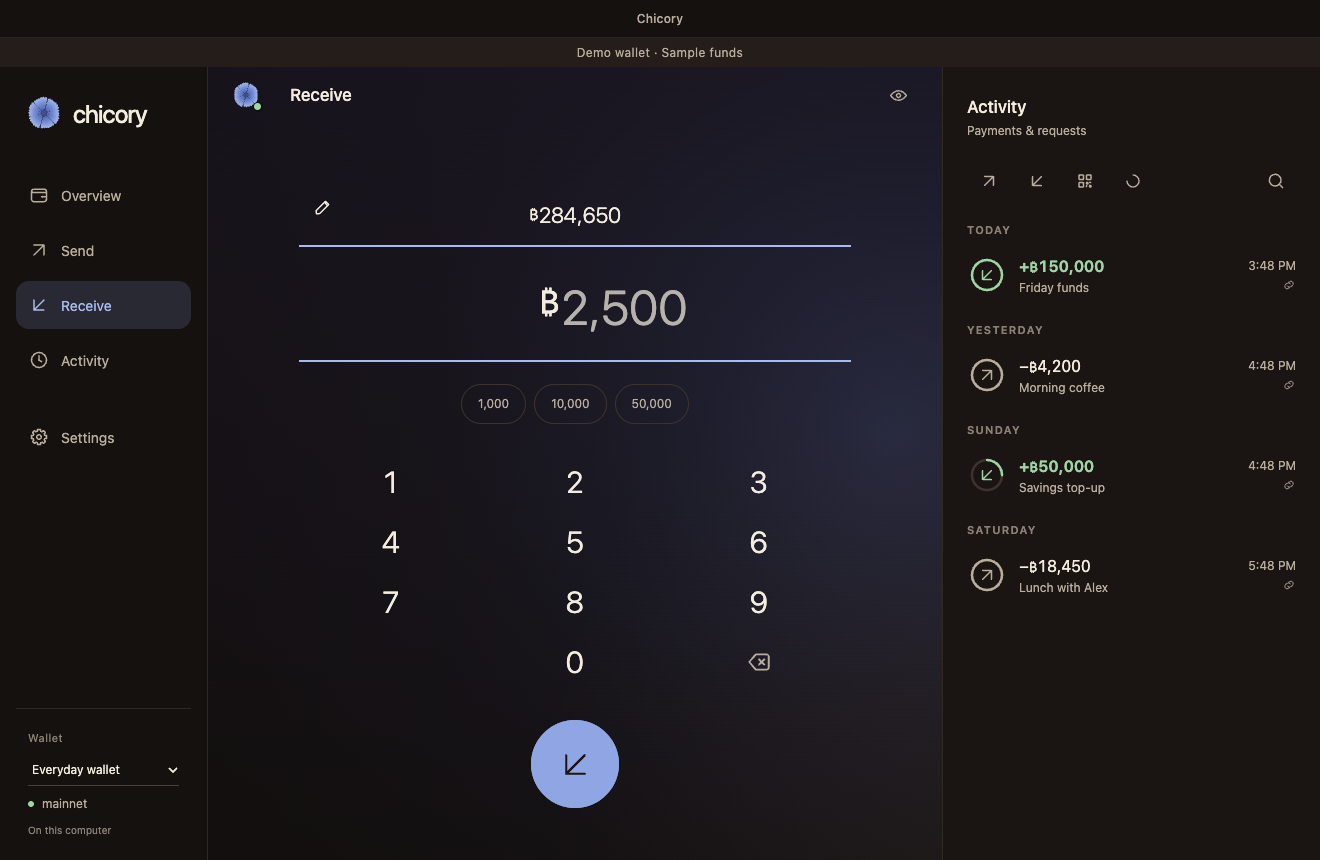
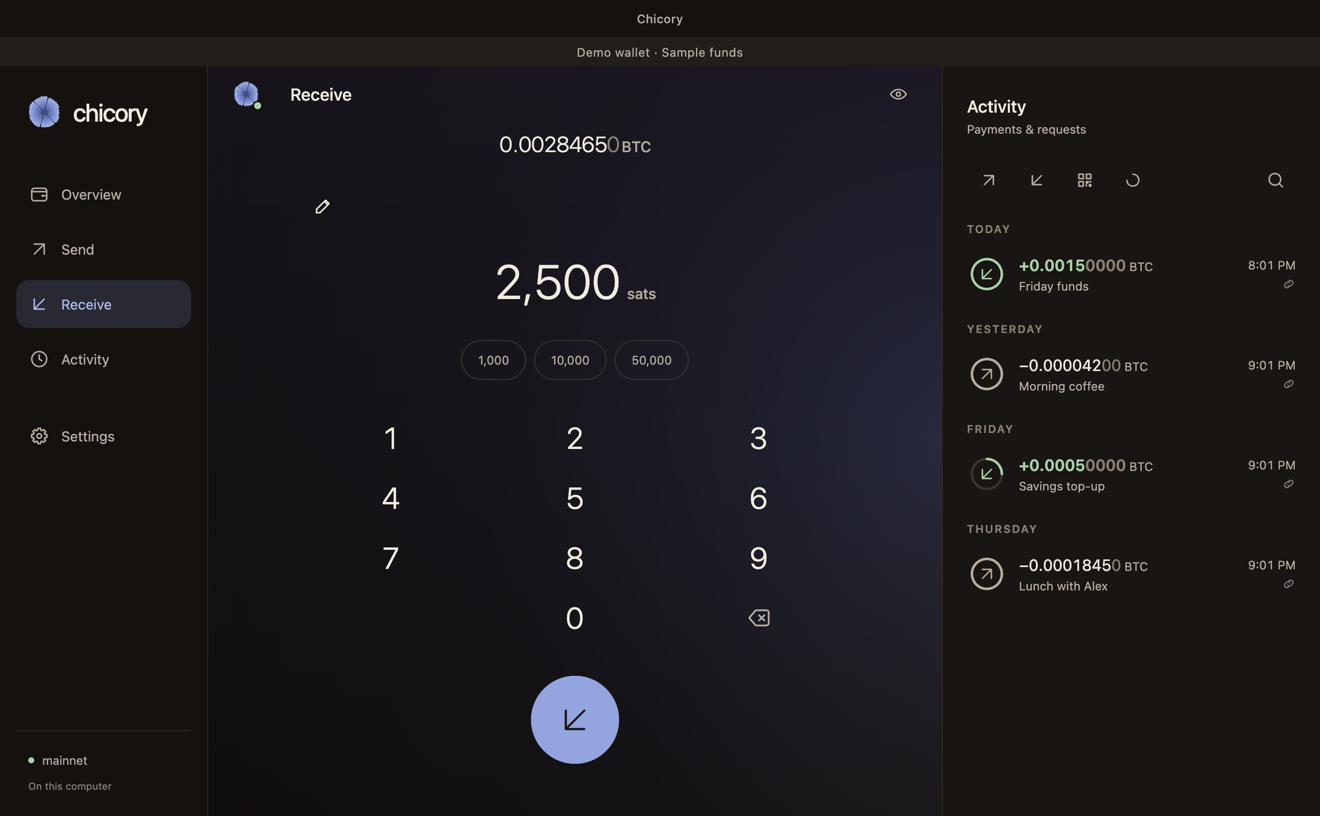
Keep the amount keypad visible on Send and Receive

diff --git a/web/chicory/src/scenes/receive/FormStep.tsx b/web/chicory/src/scenes/receive/FormStep.tsx
@@ -1,5 +1,5 @@
 import React, { useState } from 'react';
-import { ScrollView, StyleSheet, TextInput, View } from 'react-native';
+import { StyleSheet, TextInput, View } from 'react-native';
 import Reanimated from 'react-native-reanimated';
 import { AmountField } from '../../components/AmountField';
 import { copy } from '../../design/copy';
@@ -151,7 +151,7 @@ export function FormStep({
       </View>
     </View>
   );
-  const entry = (
+  const header = (
     <>
       {tools}
       {showNote ? (
@@ -172,26 +172,30 @@ export function FormStep({
           />
         </Reanimated.View>
       ) : null}
-      <AmountField
-        value={amount}
-        onChangeText={onAmount}
-        presets={PRESETS}
-        busy={busy}
-        hint={
-          refusedAmount
-            ? error?.message
-            : cue.kind === 'any' && cue.empty
-            ? copy.amount.any
-            : undefined
-        }
-        empty={<AmountFace cue={cue} />}
-        tone={
-          cue.over || refusedAmount ? 'radish' : cue.under ? 'dust' : undefined
-        }
-        shake={asked.times}
-        symbol={symbol}
-      />
     </>
+  );
+  const entry = (
+    <AmountField
+      header={header}
+      scrollID={room === undefined ? undefined : 'receive-entry'}
+      value={amount}
+      onChangeText={onAmount}
+      presets={PRESETS}
+      busy={busy}
+      hint={
+        refusedAmount
+          ? error?.message
+          : cue.kind === 'any' && cue.empty
+          ? copy.amount.any
+          : undefined
+      }
+      empty={<AmountFace cue={cue} />}
+      tone={
+        cue.over || refusedAmount ? 'radish' : cue.under ? 'dust' : undefined
+      }
+      shake={asked.times}
+      symbol={symbol}
+    />
   );
   // The way on, with what went wrong beside it as Send has it, so a refusal
   // is never pushed past the bottom of the screen. The row holds still as
@@ -201,7 +205,11 @@ export function FormStep({
   // rises in on its own. The row moves as the step is fitted to its slot,
   // which Continue's own layout does not see, so it is measured again then.
   const controls = (
-    <View style={styles.controls} onLayout={landing.onLayout}>
+    <View
+      {...{ dataSet: { amountActions: 'true' } }}
+      style={styles.controls}
+      onLayout={landing.onLayout}
+    >
       <View style={styles.side}>
         {onDismissRetry && (
           <GlyphButton
@@ -251,17 +259,11 @@ export function FormStep({
   // In the scene, the step fits its slot: what is entered scrolls on a
   // short phone, and the way on stays pinned above the bottom inset.
   return (
-    <View style={[styles.pinned, { height: Math.max(room, PINNED_MIN) }]}>
-      <ScrollView
-        testID="receive-entry"
-        style={styles.entry}
-        contentContainerStyle={styles.form}
-        alwaysBounceVertical={false}
-        keyboardShouldPersistTaps="handled"
-        nestedScrollEnabled
-      >
-        {entry}
-      </ScrollView>
+    <View
+      {...{ dataSet: { amountForm: 'true' } }}
+      style={[styles.pinned, { height: Math.max(room, PINNED_MIN) }]}
+    >
+      {entry}
       {controls}
     </View>
   );
@@ -270,7 +272,6 @@ export function FormStep({
 const styles = StyleSheet.create({
   form: { flexGrow: 1, gap: space.lg },
   pinned: { gap: space.lg },
-  entry: { flex: 1 },
   tools: { flexDirection: 'row', alignItems: 'center', gap: space.sm },
   // Either side of the cue, the same width, so the cue is centred whether
   // or not the moon is offered.

diff --git a/web/chicory/src/scenes/keypad/AmountReadout.tsx b/web/chicory/src/scenes/keypad/AmountReadout.tsx
@@ -6,7 +6,7 @@ import React, {
   useState,
 } from 'react';
 import type { ComponentRef, KeyboardEvent, MouseEvent, ReactNode, Ref } from 'react';
-import { Platform, StyleSheet, Text, View, useWindowDimensions } from 'react-native';
+import { Platform, ScrollView, StyleSheet, Text, View, useWindowDimensions } from 'react-native';
 import type { LayoutChangeEvent } from 'react-native';
 import Reanimated, {
   ReduceMotion,
@@ -283,6 +283,10 @@ export interface AmountReadoutProps {
   shake?: number;
   /** What sits between the amount and its keypad, such as preset chips. */
   children?: ReactNode;
+  /** Controls above the amount, such as Receive's note. */
+  header?: ReactNode;
+  /** The fitted form scrolls its fields independently of its keypad. */
+  scrollID?: string;
   /**
    * The unit is drawn as the bitcoin sign before the digits, `₿2,000`,
    * rather than "sats" after them (`unitAffixes`). What is keyed, and what
@@ -331,6 +335,8 @@ export function AmountReadout({
   empty,
   shake: shakes,
   children,
+  header,
+  scrollID,
   symbol = false,
   ref,
 }: AmountReadoutProps) {
@@ -429,8 +435,9 @@ export function AmountReadout({
     size === AMOUNT_SIZES[0]
       ? null
       : { fontSize: size, lineHeight: amountLine(size) };
-  return (
+  const fields = (
     <>
+      {header}
       <Reanimated.View
         {...(Platform.OS === 'web' ? browserViewProps({
           tabIndex: live ? 0 : -1,
@@ -457,7 +464,7 @@ export function AmountReadout({
         }}
         accessibilityHint={hint}
         accessibilityState={{ disabled: !editable, busy }}
-        style={[styles.readout, refusal.style]}
+        style={[styles.readout, scrollID && editable ? styles.fittedReadout : null, refusal.style]}
       >
         <Reanimated.View
           pointerEvents="none"
@@ -528,6 +535,23 @@ export function AmountReadout({
         </Reanimated.View>
       </Reanimated.View>
       {children}
+    </>
+  );
+  return (
+    <>
+      {scrollID ? (
+        <ScrollView
+          {...{ dataSet: { amountFields: 'true' } }}
+          testID={scrollID}
+          style={styles.scroll}
+          contentContainerStyle={styles.fields}
+          alwaysBounceVertical={false}
+          keyboardShouldPersistTaps="handled"
+          nestedScrollEnabled
+        >
+          {fields}
+        </ScrollView>
+      ) : fields}
       {editable ? (
         <Keypad
           onKey={onKey}
@@ -541,6 +565,9 @@ export function AmountReadout({
 }
 
 const styles = StyleSheet.create({
+  scroll: { flex: 1 },
+  fields: { flexGrow: 1, justifyContent: 'center', gap: space.sm },
+  fittedReadout: { minHeight: amountLine(AMOUNT_SIZES[0]) },
   // Across the whole field whatever its parent aligns, since the amount is
   // sized to fit what it measures.
   readout: {

diff --git a/web/chicory/src/screens/Send.tsx b/web/chicory/src/screens/Send.tsx
@@ -8,7 +8,7 @@ import React, {
   useSyncExternalStore,
 } from 'react';
 import type { ReactNode, Ref } from 'react';
-import { AppState, ScrollView, StyleSheet, Text, View } from 'react-native';
+import { AppState, StyleSheet, Text, View } from 'react-native';
 import type { HostInstance } from 'react-native';
 import Reanimated, { useSharedValue } from 'react-native-reanimated';
 import Clipboard from '@react-native-clipboard/clipboard';
@@ -1828,15 +1828,8 @@ export function SendScreen({
       .join(' ');
     content = (
       <>
-        <ScrollView
-          testID="send-entry"
-          style={styles.entry}
-          contentContainerStyle={styles.entryContent}
-          alwaysBounceVertical={false}
-          keyboardShouldPersistTaps="handled"
-          nestedScrollEnabled
-        >
         <AmountReadout
+          scrollID={room === undefined ? undefined : 'send-entry'}
           ref={readout}
           accessibilityLabel={copy.amount.field}
           value={grouped(shownAmount)}
@@ -1876,8 +1869,11 @@ export function SendScreen({
             </Reanimated.View>
           ) : null}
         </AmountReadout>
-        </ScrollView>
-        <View style={styles.controls} onLayout={launchLanding.onLayout}>
+        <View
+          {...{ dataSet: { amountActions: 'true' } }}
+          style={styles.controls}
+          onLayout={launchLanding.onLayout}
+        >
           <View style={styles.side} />
           {/* Home's Send circle lands exactly on it (REDESIGN.md 7, T1),
               and it is unseen until the circle hands over, so the two are
@@ -1928,6 +1924,7 @@ export function SendScreen({
       <View
         style={[
           styles.screen,
+          fitted && fixedSats === null && room < 360 && styles.shortCompose,
           fitted ? { height: Math.max(room, PINNED_MIN) } : styles.unfitted,
         ]}
       >
@@ -1975,6 +1972,7 @@ export function SendScreen({
           layout={smooth()}
           onTouchStart={result || resolved ? touched : undefined}
           onFocus={result || resolved ? touched : undefined}
+          {...{ dataSet: fitted && fixedSats === null ? { amountForm: 'true' } : undefined }}
           style={[styles.step, fitted && styles.fitted]}
         >
           {content}
@@ -1992,11 +1990,11 @@ const PINNED_MIN = PRIMARY_CONTROL * 3;
 
 const styles = StyleSheet.create({
   screen: { gap: space.lg },
+  // Leave room for the whole amount line above the action in a short window.
+  shortCompose: { gap: space.xs },
   unfitted: { flex: 1 },
   step: { flexGrow: 1, gap: space.lg },
   fitted: { flexShrink: 1, flexBasis: 0 },
-  entry: { flex: 1 },
-  entryContent: { flexGrow: 1, gap: space.lg },
   body: {
     flexGrow: 1,
     alignItems: 'center',

diff --git a/web/style.css b/web/style.css
@@ -73,6 +73,49 @@ input:focus-visible, textarea:focus-visible { outline: 2px solid #8fa5e4; outlin
   .browser-sidebar nav button, .browser-sidebar kbd { transition: none; }
 }
 
+/* Use the space in the payment column, which excludes the title bar and
+   Activity. The amount, presets and note can scroll together while the
+   keypad and primary action keep their own space. */
+[data-payment-column] { container: payment-column / size; }
+@container payment-column (min-width: 390px) and (max-height: 680px) {
+  [data-amount-form] {
+    display: grid;
+    grid-template:
+      "fields keys" minmax(0, 1fr)
+      "action action" auto / minmax(0, 1.1fr) minmax(0, .9fr);
+  }
+  [data-amount-form] > [data-amount-fields] {
+    grid-area: fields;
+  }
+  [data-amount-form] > [data-amount-fields] > div {
+    justify-content: safe center;
+    gap: 8px;
+  }
+  [data-amount-form] > [data-amount-keypad] {
+    grid-area: keys;
+    align-self: center;
+    height: 100%;
+    min-height: 176px;
+    max-height: 240px;
+  }
+  [data-amount-keypad] > div { flex: 1; }
+  [data-amount-keypad] > div > * { height: auto; }
+  [data-amount-form] > [data-amount-actions] { grid-area: action; }
+}
+/* On short or zoomed windows the last row of keys shares the action's
+   vertical space. Each of the four rows still has a 44px pointer target. */
+@container payment-column (min-width: 390px) and (max-height: 500px) {
+  [data-amount-form] {
+    grid-template-areas: "fields keys" "action keys";
+  }
+}
+
+/* At very high zoom, the outer scene can scroll the single-column form.
+   Give the fields a usable viewport alongside the fixed keypad and action. */
+@container payment-column (width < 390px) {
+  [data-amount-form] > [data-amount-fields] { min-height: 96px; }
+}
+
 /* Send and Receive swap in one commit under a view transition (sceneSwap),
    run by the compositor and not by the page. Only the layers named here take
    part: the content clears before the next arrives, since the keypads sit at

diff --git a/web/chicory/src/components/AmountField.tsx b/web/chicory/src/components/AmountField.tsx
@@ -57,6 +57,8 @@ export function AmountField({
   editable = true,
   busy = false,
   presets,
+  header,
+  scrollID,
   autoFocus,
   empty,
   tone,
@@ -71,6 +73,8 @@ export function AmountField({
   editable?: boolean;
   busy?: boolean;
   presets?: number[];
+  header?: ReactNode;
+  scrollID?: string;
   autoFocus?: boolean;
   empty?: ReactNode;
   tone?: keyof typeof TONES;
@@ -88,6 +92,8 @@ export function AmountField({
   }, [autoFocus]);
   return (
     <AmountReadout
+      header={header}
+      scrollID={scrollID}
       ref={readout}
       accessibilityLabel={label}
       value={grouped(digits)}
@@ -127,6 +133,7 @@ const styles = StyleSheet.create({
   presets: {
     flexDirection: 'row',
     justifyContent: 'center',
+    flexWrap: 'wrap',
     gap: space.xs,
     paddingVertical: space.xs,
   },

diff --git a/web/chicory/src/scenes/keypad/Keypad.tsx b/web/chicory/src/scenes/keypad/Keypad.tsx
@@ -167,6 +167,7 @@ export const Keypad = memo(function KeypadView({
   return (
     <View
       {...(Platform.OS === 'web' ? browserViewProps({
+        dataSet: { amountKeypad: 'true' },
         onKeyDown: (event: KeyboardEvent<HTMLElement>) => {
           if (!live || editableTarget(event.target)) return;
           const key = amountKey(event.nativeEvent);
@@ -218,8 +219,9 @@ const styles = StyleSheet.create({
   },
   disc: {
     position: 'absolute',
-    width: KEY_HEIGHT,
-    height: KEY_HEIGHT,
+    height: '100%',
+    maxHeight: KEY_HEIGHT,
+    aspectRatio: 1,
     borderRadius: KEY_HEIGHT / 2,
     backgroundColor: palette.mocha,
   },

diff --git a/web/chicory/src/stage/Canvas.tsx b/web/chicory/src/stage/Canvas.tsx
@@ -611,6 +611,7 @@ export function Canvas({
                 the slot does. It is always drawn, so without this it would
                 catch every press on Home while Send and Receive are closed. */}
                 <View
+                  {...{ dataSet: { paymentColumn: 'true' } }}
                   style={[styles.flex, desktop ? styles.browserForm : null]}
                   pointerEvents={blocking ? 'none' : 'box-none'}
                 >
